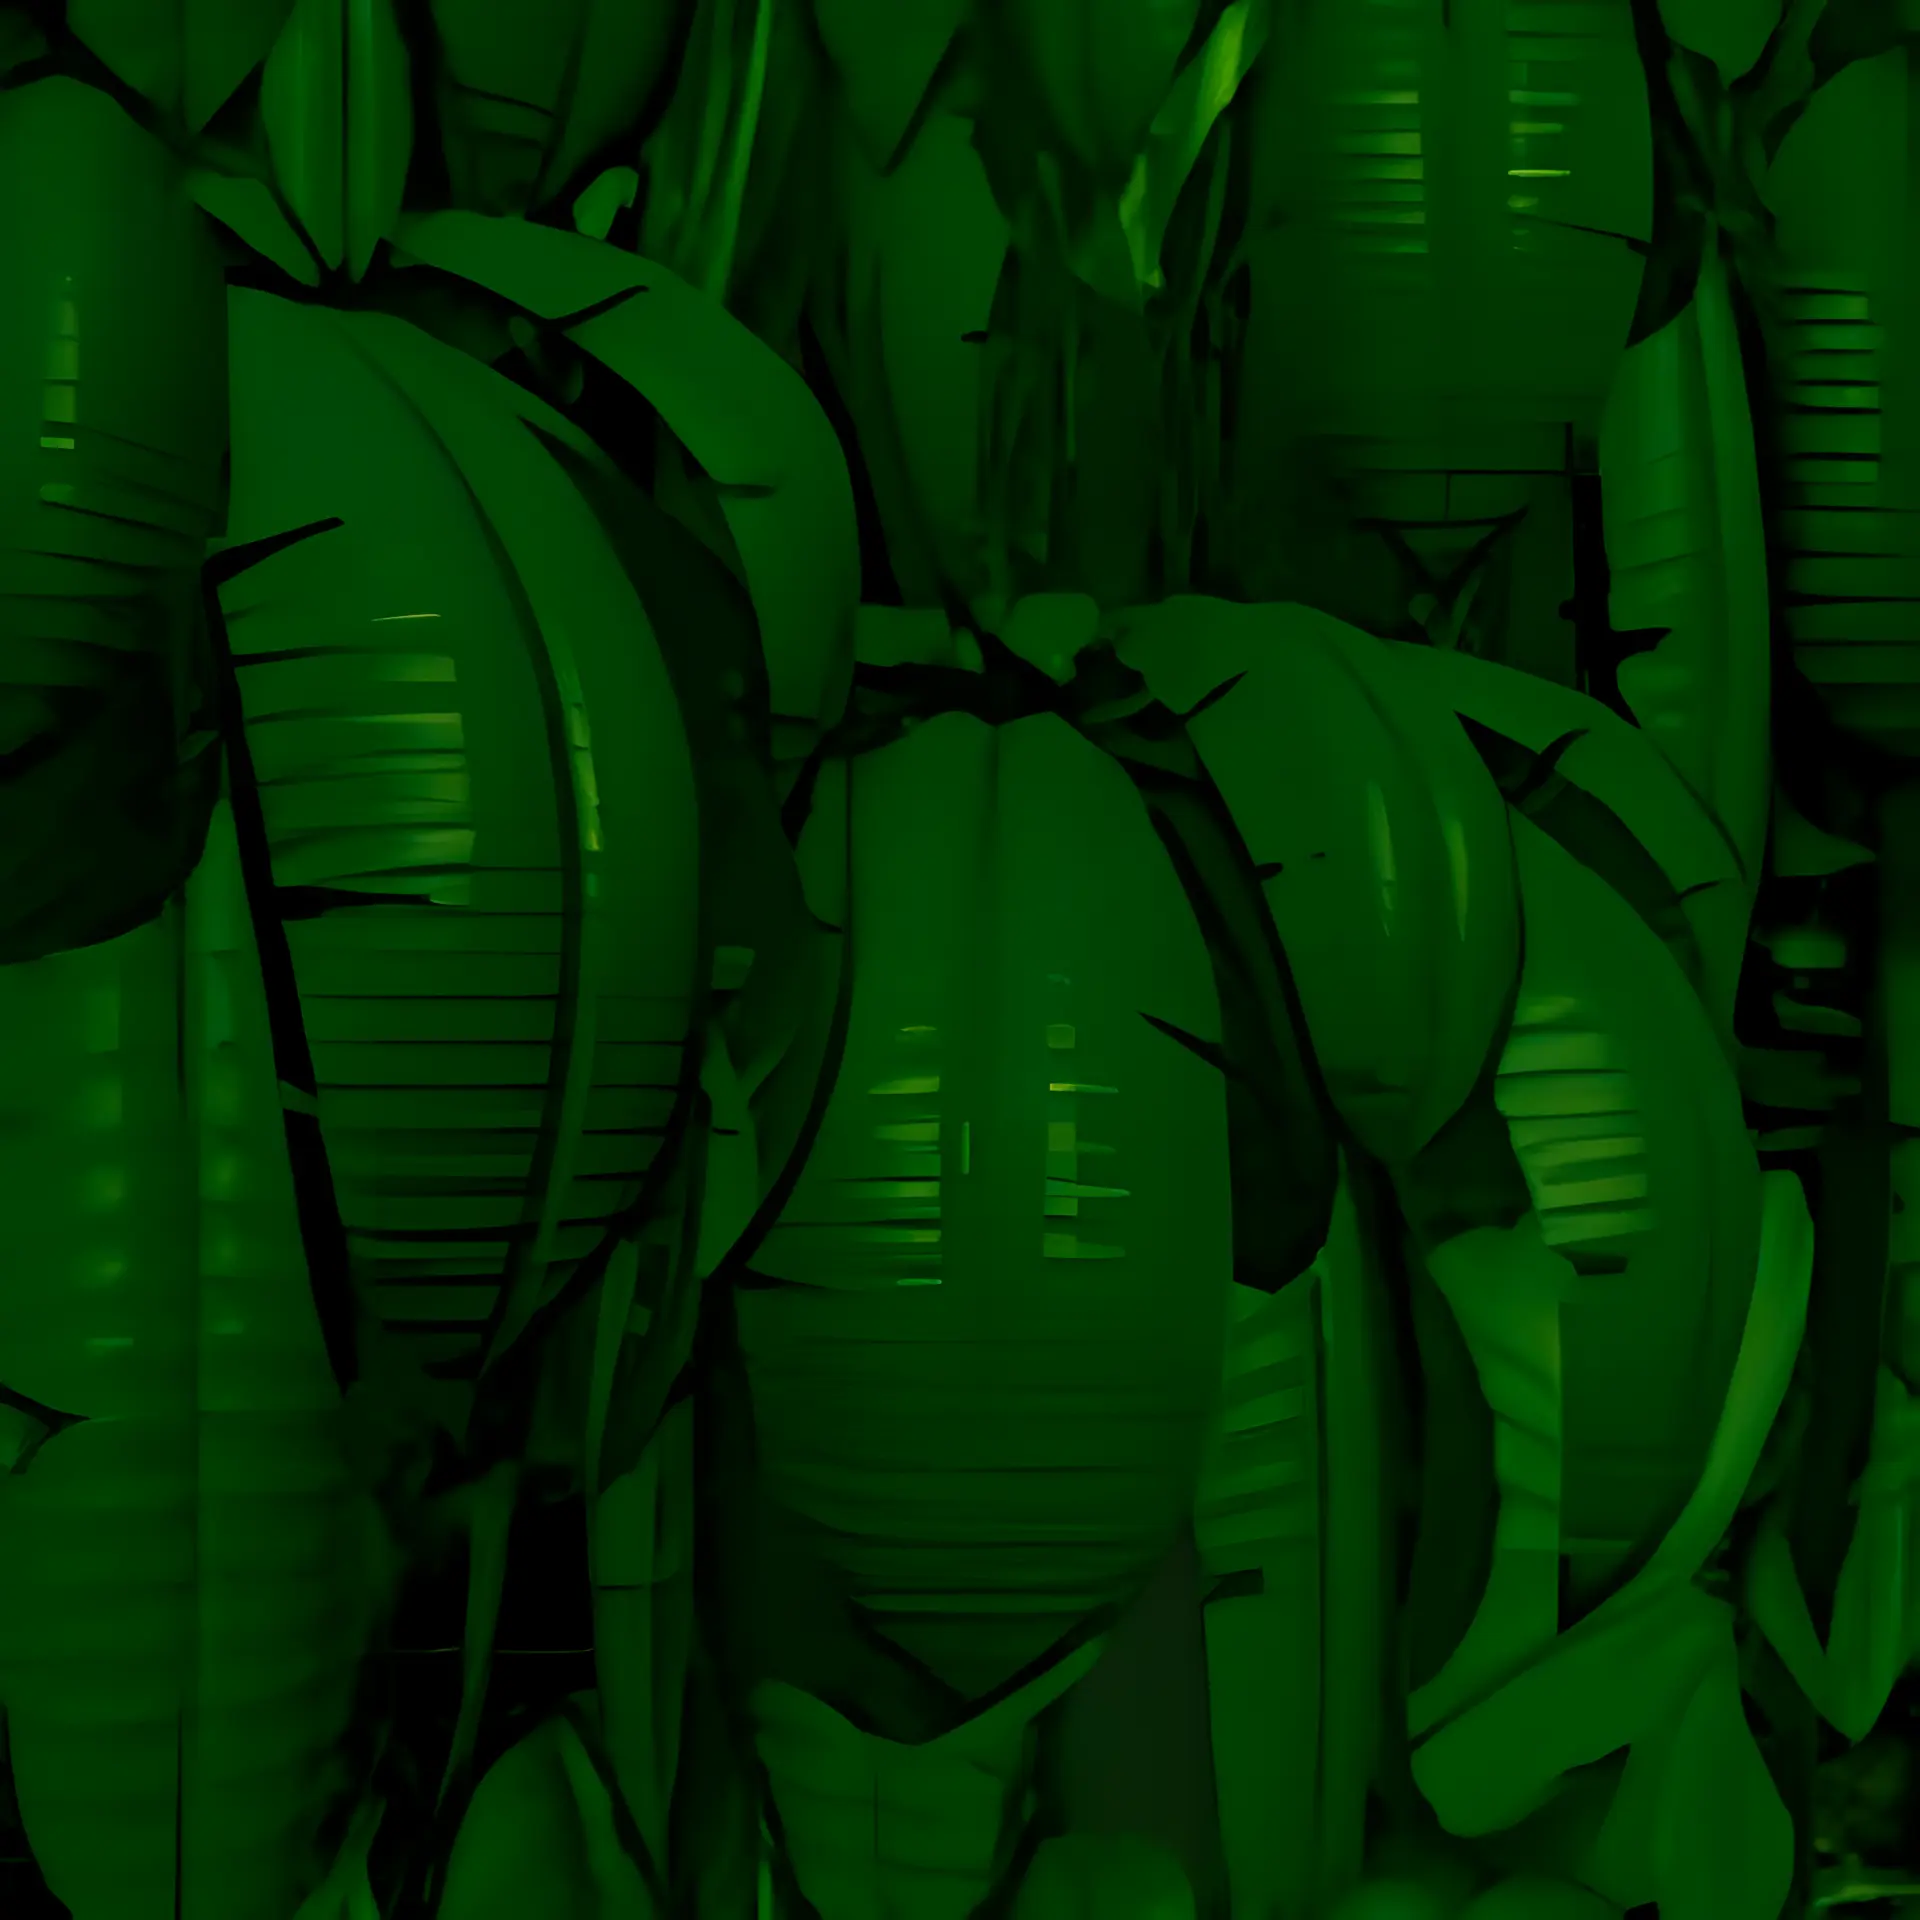
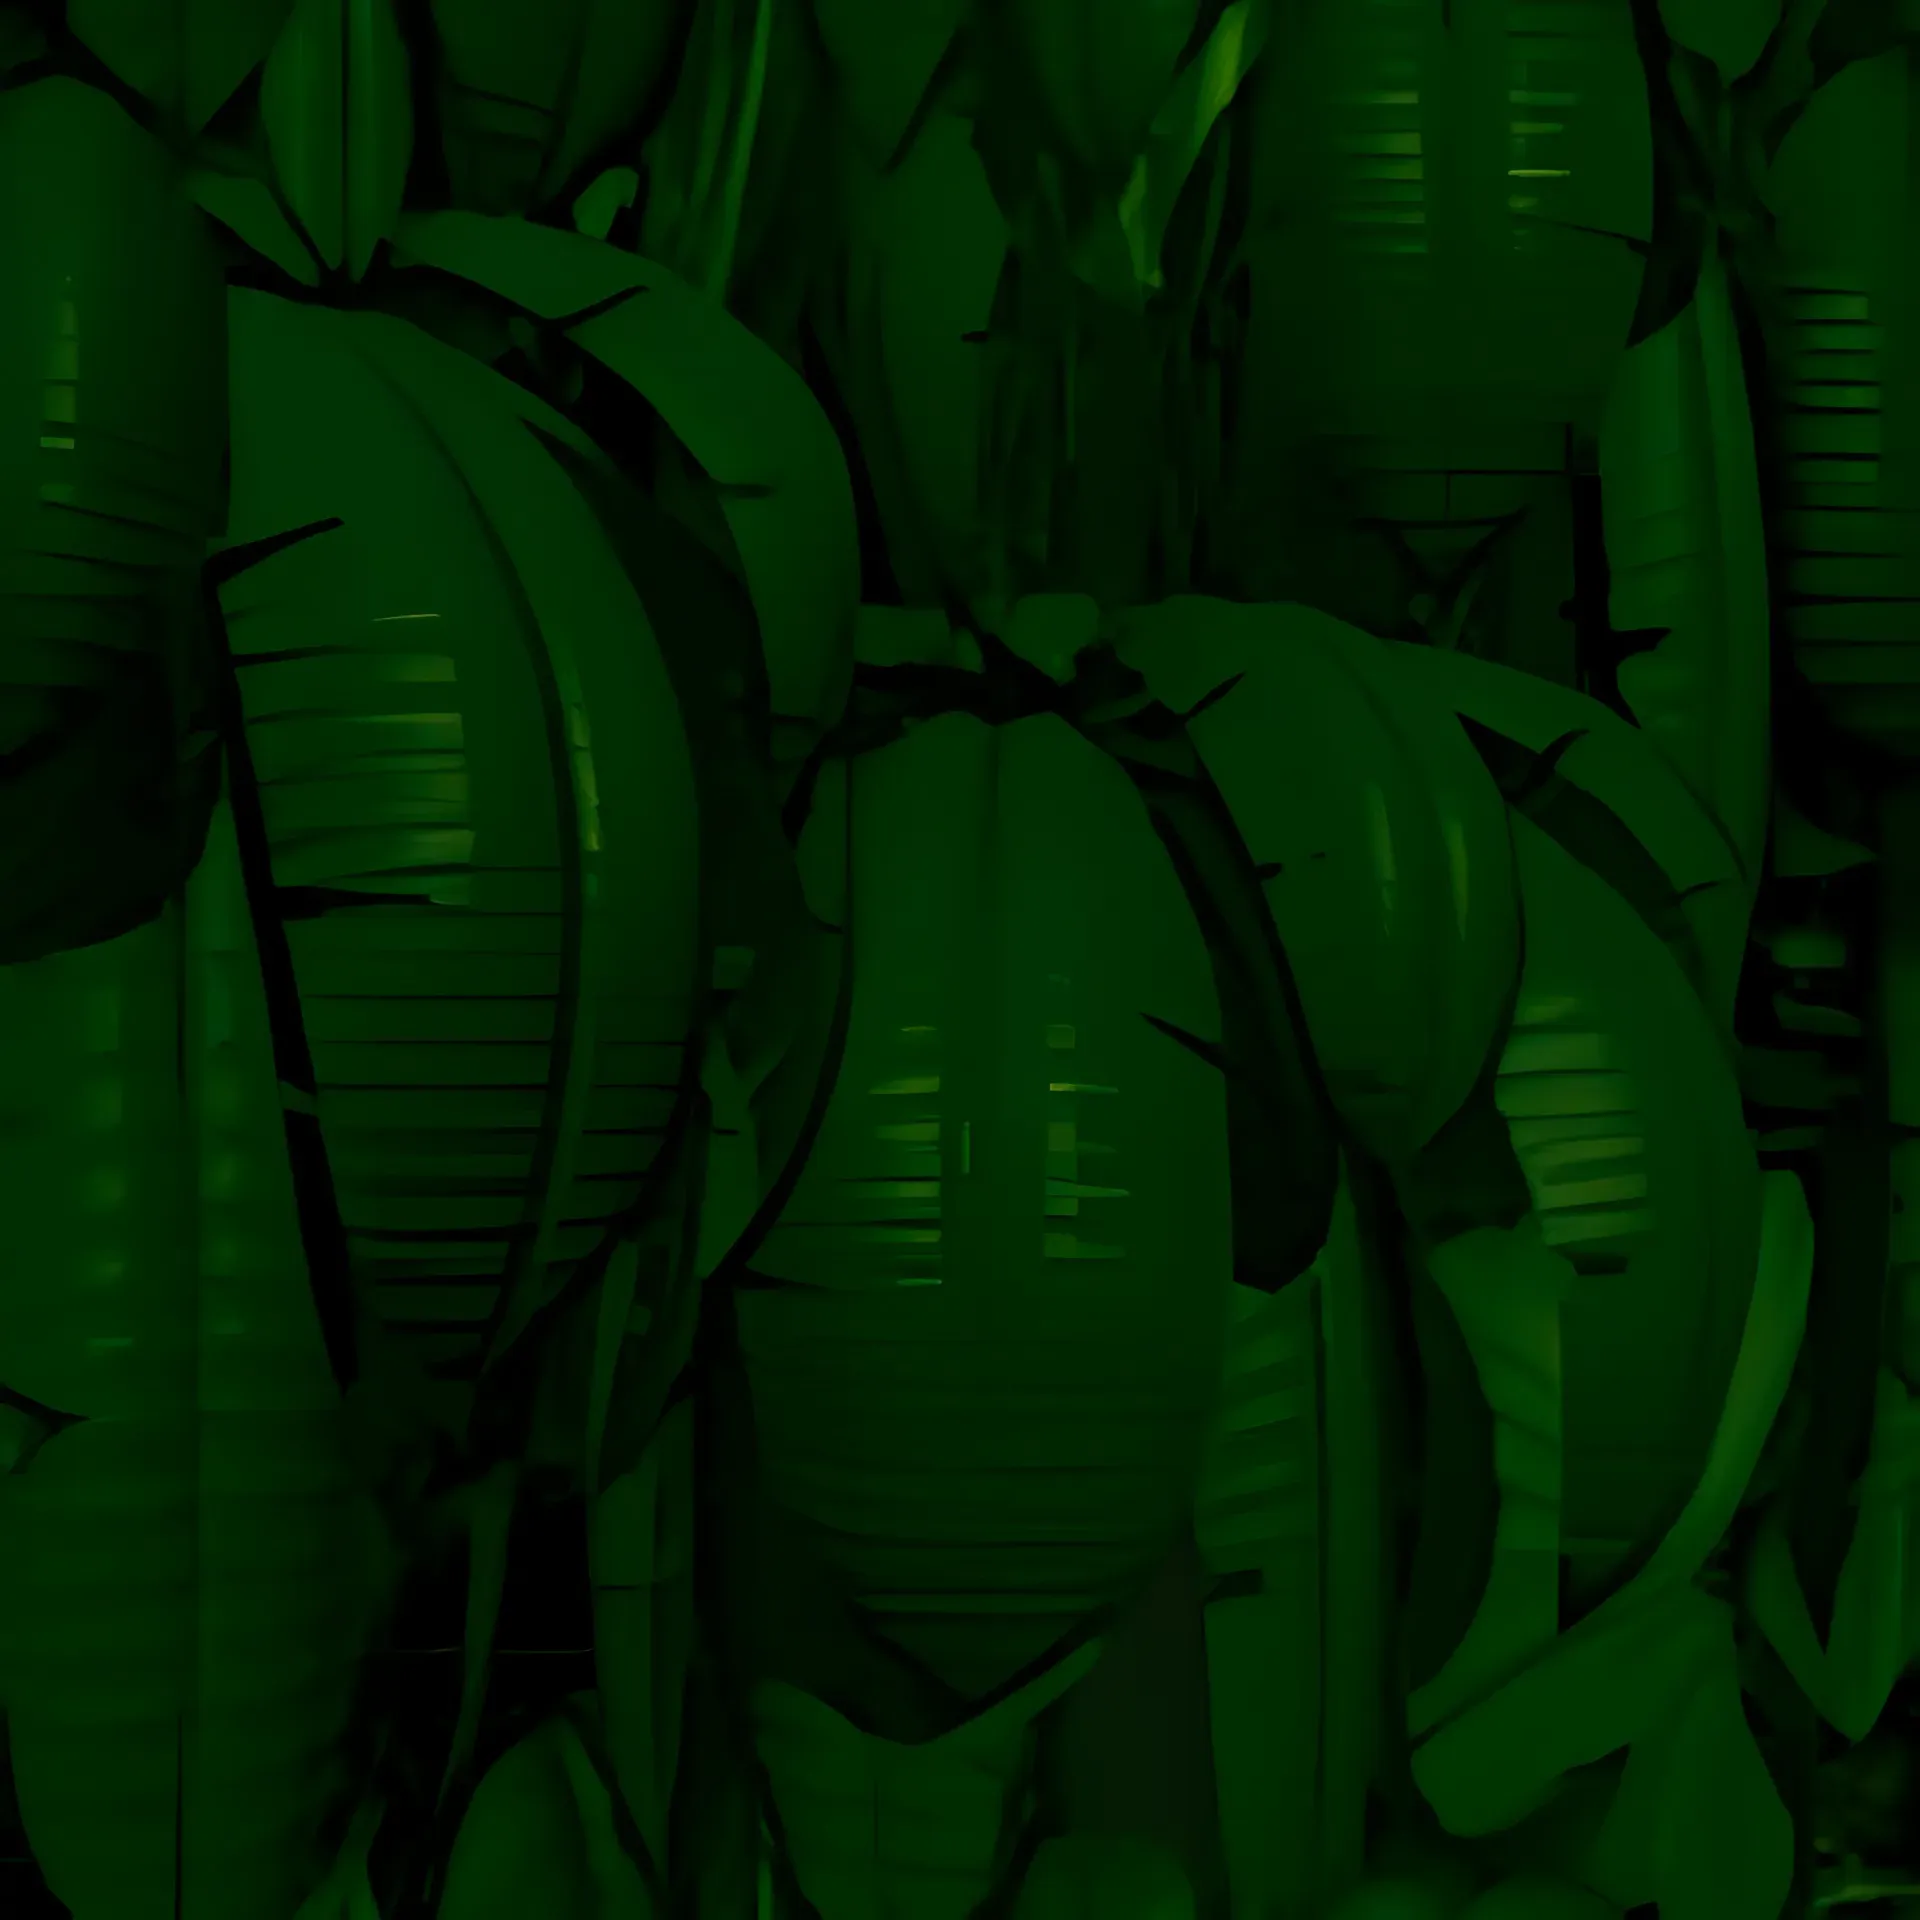
Added Header and Home component. Fixed Extension CORS. Darkened background. Moved Login

diff --git a/broadcaster-site/src/components/TwitchLogin.tsx b/broadcaster-site/src/components/TwitchLogin.tsx
@@ -1,3 +1,4 @@
+import Header from './Header';
 import { useTwitchOAuth } from '../hooks/useTwitchOAuth';
 
 interface TwitchUser {
@@ -8,58 +9,28 @@ interface TwitchUser {
 }
 
 interface TwitchLoginProps {
-  children: (user: TwitchUser, logout: () => void) => React.ReactNode;
+  children: (user: TwitchUser | null, logout: () => void, loginButton: React.ReactNode) => React.ReactNode;
 }
 
 function TwitchLogin({ children }: TwitchLoginProps) {
-  const { user, loading, error: authError, login, logout, isAuthenticated } = useTwitchOAuth();
+  const { user, error: authError, login, logout, isAuthenticated } = useTwitchOAuth();
 
-  if (loading) {
-    return (
-      <div className="app-layout">
-        <header className="app-header">
-          <div className="header-content">
-            <div className="header-title">
-              <h1>🍌 DK64 Randomizer</h1>
-              <h2>Broadcaster Upload</h2>
-            </div>
-          </div>
-        </header>
-        <main className="main-content">
-          <div className="content-card">
-            <div className="container">
-              <div className="card">
-                <div className="message uploading">
-                  <span className="spinner">⏳</span> Loading...
-                </div>
-              </div>
-            </div>
-          </div>
-        </main>
-      </div>
-    );
-  }
+  const loginButton = (
+    <button onClick={login} className="twitch-btn">
+      Login with Twitch
+    </button>
+  );
 
   if (!isAuthenticated || !user) {
     return (
       <div className="app-layout">
-        <header className="app-header">
-          <div className="header-content">
-            <div className="header-title">
-              <h1>🍌 DK64 Randomizer</h1>
-              <h2>Broadcaster Upload</h2>
-            </div>
-          </div>
-        </header>
+        <Header loginButton={loginButton} />
         <main className="main-content">
           <div className="content-card">
             <div className="container">
               <div className="card">
                 <div className="auth-section">
                   <p>Please log in with your Twitch account to upload spoiler logs.</p>
-                  <button onClick={login} className="twitch-login-btn">
-                    Login with Twitch
-                  </button>
                   {authError && (
                     <div className="message error">
                       ✗ {authError}
@@ -74,7 +45,7 @@ function TwitchLogin({ children }: TwitchLoginProps) {
     );
   }
 
-  return <>{children(user, logout)}</>;
+  return <>{children(user, logout, loginButton)}</>;
 }
 
 export default TwitchLogin;

diff --git a/broadcaster-site/src/App.tsx b/broadcaster-site/src/App.tsx
@@ -1,36 +1,24 @@
 import TwitchLogin from './components/TwitchLogin';
 import Upload from './components/Upload';
+import Header from './components/Header';
 import './App.css';
 
 function App() {
   return (
     <div className="app-layout">
       <TwitchLogin>
-        {(user, logout) => (
+        {(user, logout, loginButton) => (
           <>
-            <header className="app-header">
-              <div className="header-content">
-                <div className="header-title">
-                  <h1>🍌 DK64 Randomizer</h1>
-                  <h2>Broadcaster Upload</h2>
-                </div>
-                <div className="user-info-header">
-                  <img src={user.profile_image_url} alt={user.display_name} />
-                  <div>
-                    <strong>{user.display_name}</strong>
-                    <small>Channel ID: {user.id}</small>
-                  </div>
-                  <button onClick={logout} className="logout-btn">
-                    Logout
-                  </button>
-                </div>
-              </div>
-            </header>
+            <Header
+              user={user ?? undefined} // Convert null to undefined
+              logout={logout}
+              loginButton={!user ? loginButton : undefined}
+            />
             <main className="main-content">
               <div className="content-card">
                 <div className="container">
                   <div className="card">
-                    <Upload channelId={user.id} />
+                    {user && <Upload channelId={user.id} />}
                   </div>
                 </div>
               </div>

diff --git a/broadcaster-site/src/App.css b/broadcaster-site/src/App.css
@@ -89,7 +89,6 @@ body, .app-layout {
   align-items: center;
   gap: 12px;
   padding: 12px 20px;
-  background: #222a22 !important;
   border-radius: 8px;
 }
 
@@ -307,13 +306,13 @@ small a:hover {
   font-size: 16px;
 }
 
-.twitch-login-btn,
+.twitch-btn,
 .clear-btn,
 .logout-btn,
 .close-preview-btn {
-  background: #048243 !important;
+  background: #5010d8 !important;
   color: #ffe066 !important;
-  border: 2px solid #ffd700 !important;
+  border: 2px solid black !important;
   box-shadow: 0 2px 8px #000;
   padding: 14px 32px;
   border-radius: 8px;
@@ -321,17 +320,18 @@ small a:hover {
   font-weight: 600;
   cursor: pointer;
   transition: background-color 0.2s, transform 0.1s;
+  font-family: 'Tekton Bold', Arial, sans-serif !important;
 }
 
-.twitch-login-btn:hover,
+.twitch-btn:hover,
 .clear-btn:hover,
 .logout-btn:hover,
 .close-preview-btn:hover {
-  background: #036a32 !important;
+  background: #8956FB !important;
   color: #ffd700 !important;
 }
 
-.twitch-login-btn:active {
+.twitch-btn:active {
   transform: translateY(0);
 }
 
@@ -370,7 +370,7 @@ small a:hover {
   margin: 0;
 }
 
-.logout-btn {
+.twitch-btn {
   background: #048243;
   color: #dee2e6;
   border: none;
@@ -380,10 +380,6 @@ small a:hover {
   font-weight: 500;
   cursor: pointer;
   transition: background-color 0.2s;
-}
-
-.logout-btn:hover {
-  background: #d0d0d0;
 }
 
 .hints-preview {
@@ -418,6 +414,10 @@ small a:hover {
 }
 
 /* Carousel styles */
+.carousel {
+  position: static;
+}
+
 .carousel-container .carousel-item img {
   width: 100%;
   max-width: 1024px;

diff --git a/broadcaster-site/src/components/Header.tsx b/broadcaster-site/src/components/Header.tsx
@@ -1,0 +1,41 @@
+import React from 'react';
+
+interface HeaderProps {
+  user?: {
+    profile_image_url: string;
+    display_name: string;
+    id: string;
+  };
+  logout?: () => void;
+  loginButton?: React.ReactNode; // Add this prop
+}
+
+const Header: React.FC<HeaderProps> = ({ user, logout, loginButton }) => (
+  <header className="app-header">
+    <div className="header-content">
+      <div className="header-title">
+        <h1>🍌 DK64 Randomizer</h1>
+        <h2>Broadcaster Upload</h2>
+      </div>
+      {user && logout && (
+        <div className="user-info-header">
+          <img src={user.profile_image_url} alt={user.display_name} />
+          <div>
+            <strong>{user.display_name}</strong>
+            <small>Channel ID: {user.id}</small>
+          </div>
+          <button onClick={logout} className="twitch-btn">
+            Logout
+          </button>
+        </div>
+      )}
+      {!user && loginButton && (
+        <div className="user-info-header">
+          {loginButton}
+        </div>
+      )}
+    </div>
+  </header>
+);
+
+export default Header;

diff --git a/broadcaster-site/src/components/Home.tsx b/broadcaster-site/src/components/Home.tsx
@@ -1,0 +1,16 @@
+function Home() {
+  return (
+    <>
+      <h2>Welcome to the DK64 Randomizer Broadcaster Upload!</h2>
+      <p>
+        This site allows DK64 Randomizer broadcasters to securely upload and share spoiler logs for their seeds.
+        Log in with your Twitch account to access the hint viewer and upload your spoiler log.
+      </p>
+      <p>
+        After logging in, you can view and manage your hints on the Hints page.
+      </p>
+    </>
+  );
+}
+
+export default Home;

diff --git a/extension/index.html b/extension/index.html
@@ -4,6 +4,7 @@
     <meta charset="UTF-8" />
     <link rel="icon" type="image/svg+xml" href="/vite.svg" />
     <meta name="viewport" content="width=device-width, initial-scale=1.0" />
+    <meta http-equiv="Content-Security-Policy" content="img-src data: w3.org/svg/2000 https://ngrok.com https://*.ngrok-free.dev;">
     <title>hint-viewer</title>
     <script src="https://extension-files.twitch.tv/helper/v1/twitch-ext.min.js"></script>
   </head>

diff --git a/extension/src/index.css b/extension/src/index.css
@@ -55,6 +55,10 @@ h1 {
 }
 
 /* Carousel styles */
+.carousel {
+  position: static !important;
+}
+
 .carousel-container .carousel-item img {
   width: 100%;
   max-width: 1024px;
